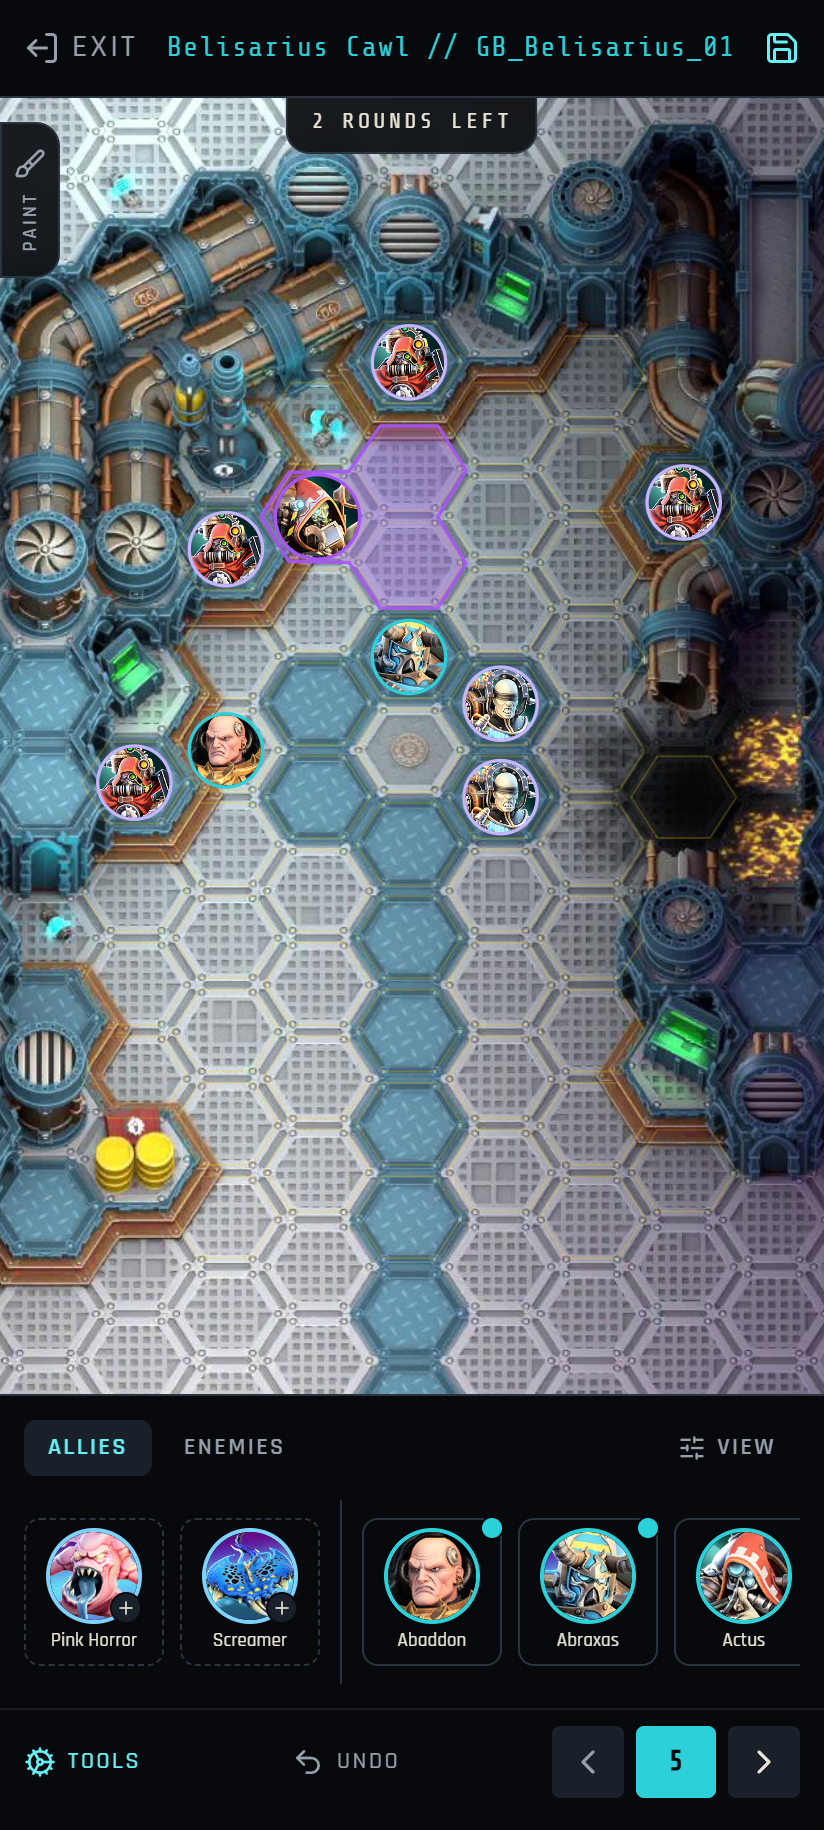
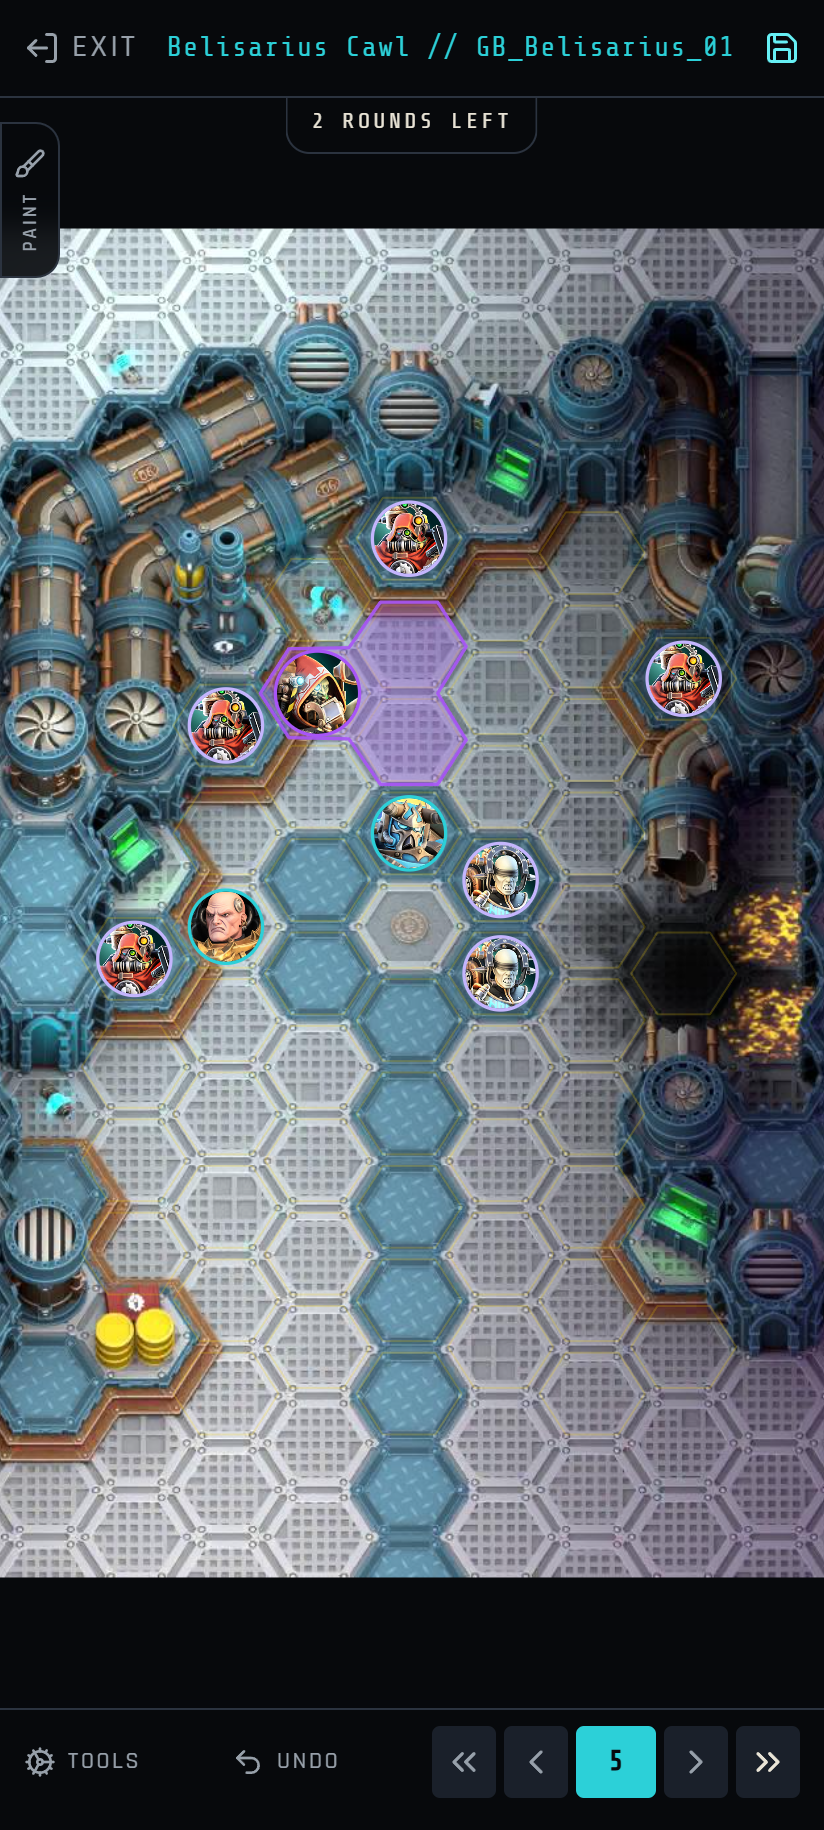
Document steps, replay, attacks and Remove in the Guide
Adds a "Record every action" section with a new screenshot, covers
deployment swaps and multi-hex rules, and refreshes the screenshots for
the new turn selector.

diff --git a/src/pages/GuidePage.tsx b/src/pages/GuidePage.tsx
@@ -52,13 +52,17 @@ export function GuidePage() {
       <Section n="III" title="Deploy & maneuver">
         <P>
           Tap a unit chip in the dock, then tap a hex to place it. Drag a placed token to move it — the
-          boss&apos;s multi-hex footprint previews where it will land. During deployment, dragging a unit onto
-          another swaps their places. Selecting a unit reveals edge actions:
-          <B> Remove</B>, and <B>Rotate</B> for multi-hex units.
+          boss&apos;s multi-hex footprint previews where it will land. During deployment (<B>S</B>), dragging a
+          unit onto another swaps their places. Selecting a unit reveals edge actions: <B>Remove</B>, and
+          <B> Rotate</B> for multi-hex units.
         </P>
         <P>
           Tap a palette chip (the dashed ones) to drop summons or extra adds — each tap creates one, so you
           can place several. Everything you do is undoable from the <B>Undo</B> button.
+        </P>
+        <P>
+          <B>Multi-hex units</B> follow the game&apos;s rules: every hex must be on the map and at the same
+          height, and nothing can share a hex with them. A move that breaks these rules just doesn&apos;t happen.
         </P>
       </Section>
 
@@ -67,31 +71,45 @@ export function GuidePage() {
         <P>
           A fight is six <B>rounds</B>, and each round is a <B>player turn</B> then an <B>enemy turn</B>. The
           selector shows <B>S</B> (deployment, green), then each round as <B>1…6</B> (blue = player turn,
-          red = enemy turn). The double arrows jump one turn at a time; the single arrows replay the plan one
-          move at a time, in the order you made the moves. Moving a unit during a replay edits the step on
-          screen, and any later steps carry on from there. <B>Remove</B> is recorded the same way, so a unit
-          defeated mid-turn disappears at that point in the replay, leaving a faded ghost for that turn. Tap
-          the ghost to <B>Restore</B> the unit.
-        </P>
-        <P>
-          Drag a unit onto another unit to record an <B>attack</B>: a red arrow points at the target and the
-          attacker gets a crossed-swords icon, without moving. Attacks replay in order too; drag onto the same
-          target again to take the attack back.
+          red = enemy turn). The <B>double arrows</B> jump a whole turn; the <B>single arrows</B> replay the
+          plan one action at a time.
         </P>
         <P>
           Positions carry forward until you change them, and a faint arrow shows each token&apos;s move from
           the previous turn — so you can see the whole advance at a glance. The counter at the top of the
           map shows rounds remaining.
         </P>
-        <P>
-          Some units move more than once in a turn. After moving a unit, tap <B>+ Step</B> and move it again
-          to record another step; the arrows chain in order. Moving without tapping it corrects the latest
-          step, and moving back to where that step began cancels it.
-        </P>
       </Section>
 
-      {/* 5 — Paint & hazards */}
-      <Section n="V" title="Paint zones & hazards">
+      {/* 5 — Actions within a turn */}
+      <Section n="V" title="Record every action">
+        <P>From round 1 on, you can record what each unit does in a turn, in order:</P>
+        <UL>
+          <li>
+            <B>+ Step</B> — for units that move more than once. After moving a unit, tap <B>+ Step</B> and move
+            it again; the arrows chain in order. Moving without tapping it corrects the latest step, and moving
+            back to where that step began cancels it. Tap a unit that already moved to bring the button back.
+          </li>
+          <li>
+            <B>Attack</B> — drag a unit onto another. It stays where it is, a red arrow points at the target
+            and it gets a crossed-swords icon. Drag onto the same target again to take the attack back.
+          </li>
+          <li>
+            <B>Remove</B> — for a unit defeated mid-turn. Its moves are kept and it stays on its last hex as a
+            faded ghost with a red X, for that turn only. Tap the ghost, then <B>Restore</B> to bring it back.
+          </li>
+        </UL>
+        <P>
+          Use the <B>single arrows</B> to watch the turn play out one action at a time, in the order you made
+          them. You can edit during a replay too: moving a unit that has already acted changes what it just did,
+          and its later steps carry on from there. Moving one that hasn&apos;t acted yet adds its move at that
+          point, and new attacks or removals land at that point as well.
+        </P>
+        <Shot src="actions.png" alt="A recorded turn: chained moves, an attack on the boss and a removed unit" />
+      </Section>
+
+      {/* 6 — Paint & hazards */}
+      <Section n="VI" title="Paint zones & hazards">
         <P>
           The <B>Paint</B> panel on the board edge marks the map. Pick a colour to highlight zones (paint
           lives for the turn you draw it on plus the next), or a hazard stamp — <B>fire</B>, <B>ice</B>,
@@ -101,8 +119,8 @@ export function GuidePage() {
         <Shot src="paint.png" alt="The paint panel with colours, hazard stamps and the rubber" />
       </Section>
 
-      {/* 6 — Save & share */}
-      <Section n="VI" title="Save & share">
+      {/* 7 — Save & share */}
+      <Section n="VII" title="Save & share">
         <P>
           Without an account your plan lives in this browser. Sign in (Google, email, or Discord) and you
           can <B>Save</B> named plans to the cloud, reopen them from <Lnk to="/plans">My Plans</Lnk>, and
